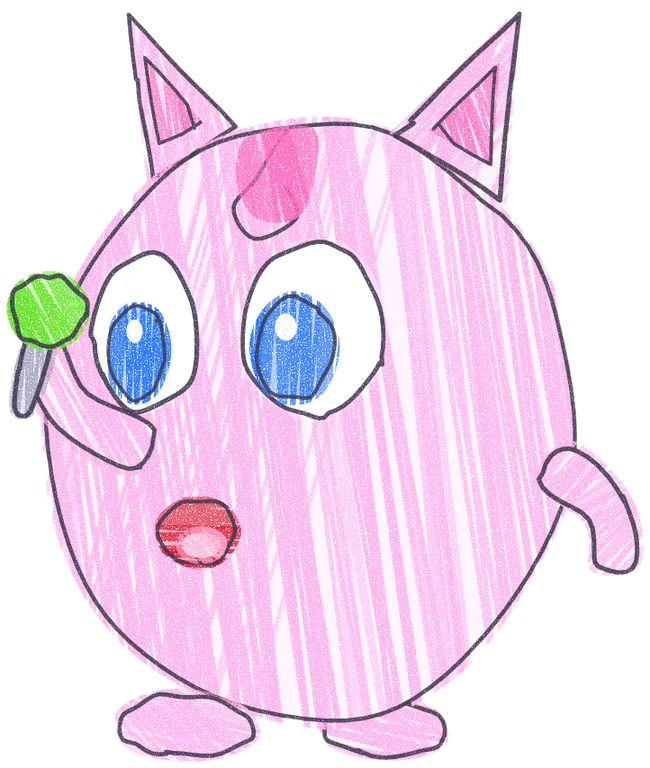
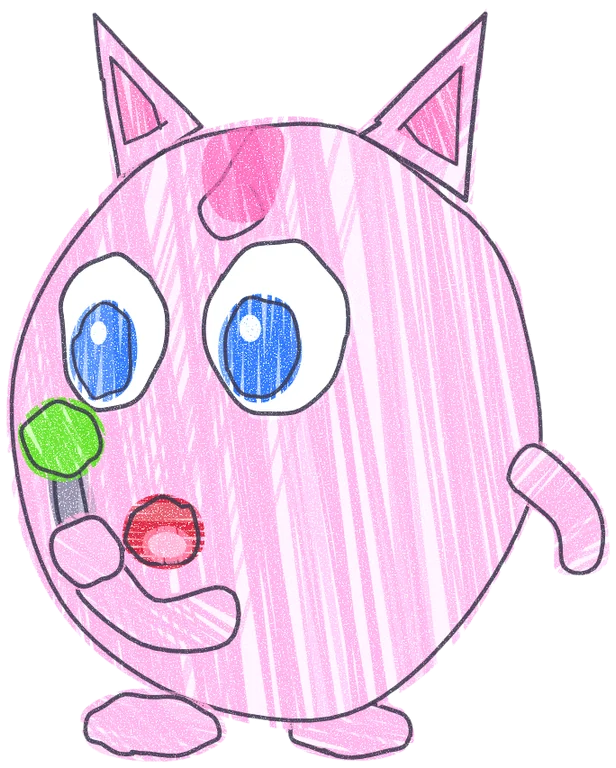
Chantouille holds its microphone in its paw, up to its mouth

diff --git a/tools/redraws/chantouille.ts b/tools/redraws/chantouille.ts
@@ -19,10 +19,6 @@ export default {
     // the curl on top
     stroke([[480, 240], [450, 290], [420, 330], [450, 360], [490, 340], [480, 300]], { w: 5 });
     c.tint([[435, 250], [510, 240], [500, 330], [450, 340], [425, 300]], DEEP, { gap: 3.2 });
-    // the near arm holding the microphone up to sing
-    shape(band([[330, 600], [250, 560], [215, 490]], 52, 46), PINK, { angle: 60 });
-    shape(band([[215, 480], [195, 560]], 26, 20), GREY, { angle: 90, over: 0 });
-    shape(potato(220, 450, 40, 40, 9, 0.05), GREEN, { angle: 60, press: 1.1 });
     shape(band([[790, 600], [850, 650], [860, 710]], 50, 44), PINK, { angle: 130 });
     // big eyes, shifted left (the far one smaller), a little singing mouth
     shape(potato(330, 470, 58, 86, 11, 0.04), '#ffffff', { over: 0, press: 0.3 }, { w: 5 });
@@ -31,6 +27,11 @@ export default {
     shape(potato(495, 482, 42, 56, 9, 0.04), '#3e6fd0', { angle: 90, over: 0, press: 1.2 }, { w: 4 });
     dot(316, 470, 9, 13, '#ffffff');
     dot(484, 460, 12, 15, '#ffffff');
+    // the near arm comes round from the side, its paw holding the microphone up to the mouth
+    shape(band([[300, 690], [282, 610]], 28, 22), GREY, { angle: 90, over: 0 });
+    shape(potato(278, 590, 42, 40, 9, 0.05), GREEN, { angle: 60, press: 1.1 });
+    shape(band([[470, 780], [380, 790], [320, 740]], 58, 50), PINK, { angle: 30 });
+    shape(potato(310, 715, 40, 36, 9, 0.06), PINK, { angle: 30, over: 0 });
     // singing: a small round open mouth, low on the face
     shape(potato(395, 690, 42, 36, 9, 0.05), '#b52a3c', { angle: 0, over: 0 }, { w: 4.5 });
     shape(potato(400, 704, 22, 14, 7, 0.05), '#f39ab0', { over: 0 }, { w: 0.1 });
